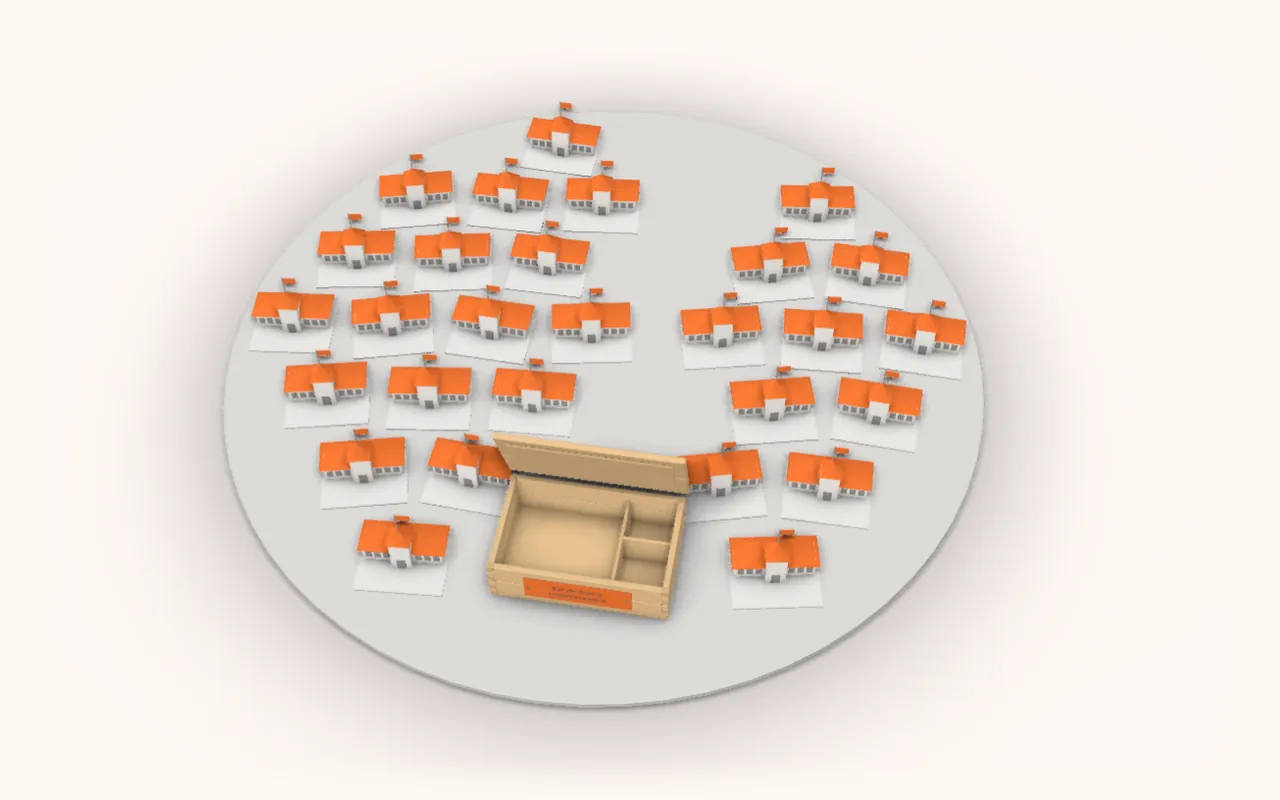
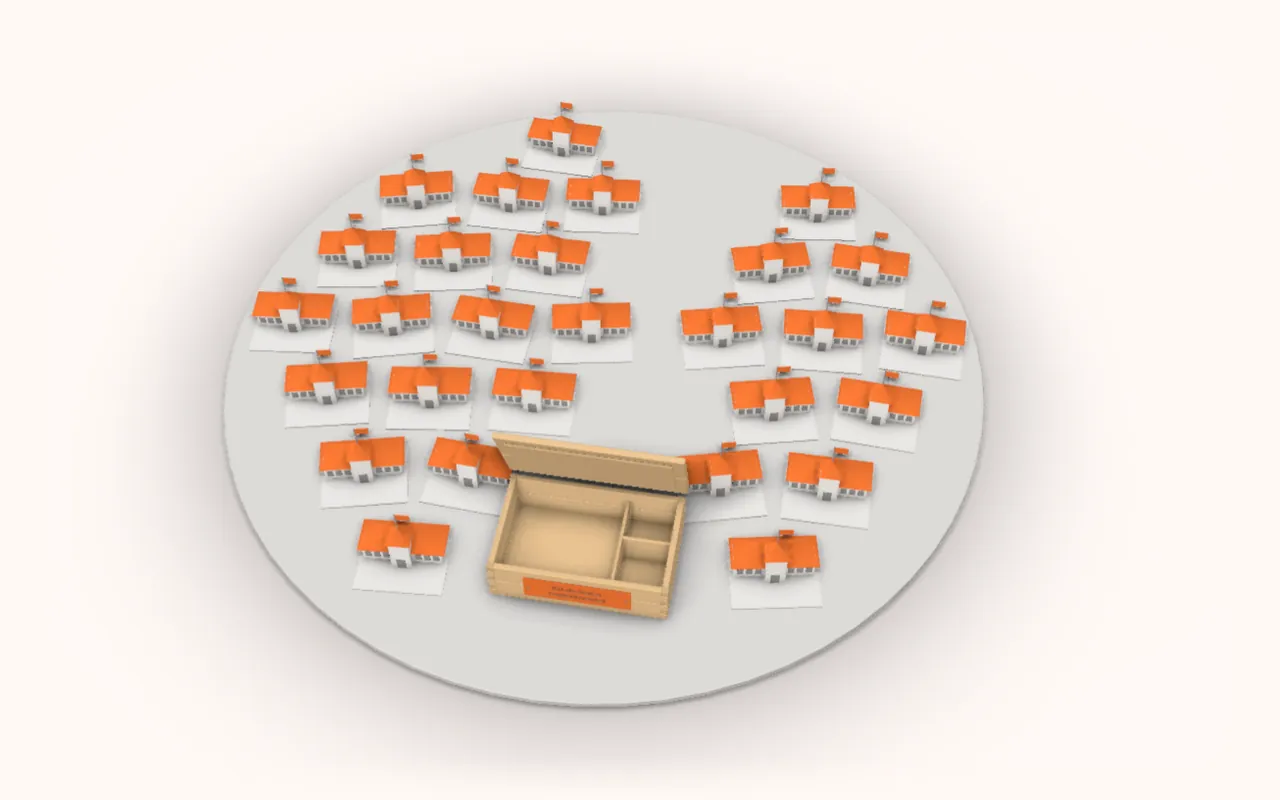
feat(work): Candela com a mão e a lupa pequena, e a câmera entrando nela
No passo das escolas uma mão traz uma lupa pequena e a segura apontada para o
kit; a câmera atravessa o aro, o campo redondo abre a partir do kit e só então
os kits saem para as 28 escolas. O passo seguinte segue com o zoom numa escola
e os 3.392 alunos. A lupa fica presa ao eixo da câmera, então ela passa pelo
meio do aro com qualquer balanço. O passo ganhou 1,9 s (3,1 → 5,0 s); pular
antes da hora pousa todos os kits. Pôster do passo 4 refeito.

Changed region(s): [[0.7188, 0.375, 0.75, 0.4062]]

diff --git a/src/components/Home/Clay/CandelaPeople.tsx b/src/components/Home/Clay/CandelaPeople.tsx
@@ -1,4 +1,5 @@
-// The ending, under one magnifying glass. It slides in under the kit and shows where the kits went:
+// The ending, through a magnifying glass. A hand holds a small one up to the kit, the camera goes
+// through it, and the round field it shows is where the kits went:
 // 28 schools, 17 in Bahia and 11 in Ceará. Then it goes into one of the schools and shows who was
 // reached: its students come out, the count runs to 3,392, and those who failed physics (a cross over
 // their heads) go from 9 in 30 to 3 in 30 once the kit is in class: the 30% and the 10% of the story.
@@ -7,7 +8,7 @@ import { useFrame } from '@react-three/fiber';
 import * as THREE from 'three';
 import { RoundedBoxGeometry } from 'three/examples/jsm/geometries/RoundedBoxGeometry.js';
 import { mergeGeometries } from 'three/examples/jsm/utils/BufferGeometryUtils.js';
-import { useTones } from './CandelaParts';
+import { TimingHand, useTones } from './CandelaParts';
 import { Act, ageOf, at, ease, pop, Puck, settle, slice, spring, useClay, type Mats, type Play, type V3 } from './kit';
 
 const HALF_PI = Math.PI / 2;
@@ -24,28 +25,82 @@ const merged = (parts: THREE.BufferGeometry[]) => {
 export const REACH = 3; // the step of the schools
 export const RESULT = 4; // the step of the students
 
-// ── The round stand ─────────────────────────────────────────────────────────
-// It was drawn as a magnifying glass (rim, glint, handle); it read as a pan, so only the disc stays.
-/** The middle of the stand, and the height its top is at: everything it shows stands on it. */
+// ── The magnifying glass ────────────────────────────────────────────────────
+// A small one, in a hand. It comes in from the lower right and stops between the camera and the kit;
+// then the camera goes through the ring, and the round field opens around the kit.
+/** Seconds into the schools' step: the glass is held still, and the camera's dive through it. */
+const LOUPE_SET = 1.15;
+export const DIVE: [number, number] = [1.5, 2.5];
+/** How far the camera travels in the dive (CandelaScene: from FAR to FIELD). */
+export const DIVE_LEN = 6;
+const LOUPE_AHEAD = 4.4; // how far in front of the camera the glass is held before the dive
+/** The ring has left the frame: from here on the kits may go. */
+export const ENTER = 1.9;
+const TILT = 0.7; // the handle points down and to the right
+export function Loupe() {
+  const { play, mats } = useClay();
+  const { wood } = useTones();
+  const g = useRef<THREE.Group>(null);
+  const { rim, glint } = useMemo(() => ({ rim: new THREE.TorusGeometry(0.5, 0.045, 10, 64), glint: new THREE.TorusGeometry(0.39, 0.012, 4, 20, 0.6).rotateZ(1.9) }), []);
+  useEffect(
+    () => () => {
+      rim.dispose();
+      glint.dispose();
+    },
+    [rim, glint],
+  );
+  // It is held far above the floor: its shadow down there would be a stray blot.
+  useLayoutEffect(() => void g.current?.traverse((o) => void (o.castShadow = false)), []);
+  const v = useMemo(() => new THREE.Vector3(), []);
+  // Hung on the camera's own axis every frame, so the camera goes through the middle of the ring whatever its sway.
+  useFrame(({ camera, clock }) => {
+    const o = g.current;
+    if (!o) return;
+    const a = play.to === REACH ? play.age : 0;
+    const ahead = LOUPE_AHEAD - DIVE_LEN * ease(slice(a, DIVE[0], DIVE[1]));
+    o.visible = a > 0.5 && ahead > 0.45;
+    if (!o.visible) return;
+    // In along its own handle, from outside the frame; held, it is never quite still.
+    const out = (1 - settle(slice(a, 0.55, LOUPE_SET), 0.6)) * 3.4;
+    const t = clock.elapsedTime;
+    o.quaternion.copy(camera.quaternion);
+    o.position.copy(camera.position).add(v.set(Math.sin(TILT) * out + Math.sin(t * 1.7) * 0.012, -Math.cos(TILT) * out + Math.sin(t * 2.3) * 0.012, -ahead).applyQuaternion(camera.quaternion));
+  });
+  return (
+    <group ref={g} visible={false}>
+      <group rotation={[0, 0, TILT]}>
+        <mesh geometry={rim} material={mats.shade.dark} />
+        <mesh geometry={glint} position={[0, 0, 0.02]} material={mats.clay} />
+        <Puck r={0.06} h={0.3} bevel={0.02} segments={16} position={[0, -0.66, 0]} material={mats.shade.dark} />
+        <Puck r={0.085} h={1.1} bevel={0.04} segments={20} position={[0, -1.3, 0]} material={wood} />
+        <group position={[0, -1.3, 0.1]}>
+          <TimingHand />
+        </group>
+      </group>
+    </group>
+  );
+}
+
+// ── The round field the glass shows ─────────────────────────────────────────
+/** The middle of the field, and the height its top is at: everything it shows stands on it. */
 export const LENS: V3 = [-0.9, 0, 0.15];
 export const GLASS = 0.06;
 const RIM = 3; // radius
-const HANDLE = 0.38; // the way it slides in and out, radians from +X towards the camera
-/** A point on the glass (x to the right, z towards the camera, from its middle), in the world. */
+/** A point on the field (x to the right, z towards the camera, from its middle), in the world. */
 export const onLens = (x: number, z: number, y = 0): V3 => [LENS[0] + x, GLASS + y, LENS[2] + z];
-// It slides in under the kit and leaves the way it came. Between the two steps it gives a little.
+// It opens around the kit as the camera comes through the glass, and closes on the spot when the story leaves.
 const lensAct = (g: THREE.Group, p: Play) => {
   const here = p.to === REACH || p.to === RESULT;
   const was = p.from === REACH || p.from === RESULT;
-  const k = here ? (was ? 1 : settle(slice(p.t, 0.2, 0.85), 0.5)) : was ? 1 - ease(slice(p.t, 0, 0.45)) : 0;
+  const open = p.to === REACH ? (p.from === RESULT ? 1 : ease(slice(p.age, ENTER - 0.15, ENTER + 0.5))) : was ? 1 : settle(slice(p.t, 0.2, 0.85), 0.5);
+  const k = here ? open : was ? 1 - ease(slice(p.t, 0, 0.45)) : 0;
   g.visible = k > 0.001;
-  const out = (1 - k) * 11;
-  // Going from the schools into one school, the stand gives.
+  // Going from the schools into one school, the field gives.
   const focus = p.from === REACH && p.to === RESULT ? 0.035 * Math.sin(slice(p.t, 0.05, 0.6) * Math.PI) : 0;
-  g.position.set(LENS[0] + Math.cos(HANDLE) * out, 0, LENS[2] + Math.sin(HANDLE) * out);
-  g.scale.setScalar(1 - focus);
+  // It opens out from under the kit, not from its own middle.
+  g.position.set(LENS[0] + KIT_ON_LENS[0] * (1 - k), 0, LENS[2] + KIT_ON_LENS[1] * (1 - k));
+  g.scale.set(k * (1 - focus), 1, k * (1 - focus));
 };
-
 export function Lens() {
   const { mats } = useClay();
   return (
@@ -87,8 +142,8 @@ const FOCUS_AT: [number, number] = [0, -1.7];
 // Kits leave the box for the nearest schools first.
 const ORDER = SPOTS.map((_, i) => i).sort((a, b) => Math.hypot(SPOTS[a].x - KIT_ON_LENS[0], SPOTS[a].z - KIT_ON_LENS[1]) - Math.hypot(SPOTS[b].x - KIT_ON_LENS[0], SPOTS[b].z - KIT_ON_LENS[1]));
 const RANK = SPOTS.map((_, i) => ORDER.indexOf(i));
-/** When the kit for the `n`-th school lands, seconds into the step. */
-export const landAt = (n: number) => 1.05 + n * 0.05;
+/** When the kit for the `n`-th school lands, seconds into the step (the camera is through the glass by ENTER). */
+export const landAt = (n: number) => ENTER + 1.05 + n * 0.05;
 /** How many schools have their kit, `p` into the story. */
 export const reached = (p: Play, from = 0, to = SCHOOLS) => {
   if (p.to !== REACH && p.from !== REACH) return 0;
@@ -164,7 +219,8 @@ export function Schools() {
     m.visible = on;
     b.visible = on && (p.to === REACH || p.from === REACH);
     if (!on) return;
-    const a3 = ageOf(p, REACH);
+    // Leaving the schools' step early (a click on the next one), every kit has landed: nothing is left in the air.
+    const a3 = p.from === REACH && p.to !== REACH ? 99 : ageOf(p, REACH);
     for (let i = 0; i < SCHOOLS; i++) {
       const s = SPOTS[i];
       const land = landAt(RANK[i]);

diff --git a/src/components/Home/Clay/CandelaScene.tsx b/src/components/Home/Clay/CandelaScene.tsx
@@ -1,10 +1,10 @@
 // Projeto Candela in five steps, with the kit in every one of them: the wooden box opens; what is
 // inside is laid out on the desk; three of the experiments run, one after the other, the camera on each;
-// then a round stand slides in under the kit and shows the 28 schools its kits went to, and goes
+// then a hand holds a small magnifying glass up to the kit, the camera goes through it to the 28 schools its kits went to, and goes
 // into one school to show the students: 3,392 reached, and those who fail physics from 30% to 10%.
 import { useEffect } from 'react';
 import * as THREE from 'three';
-import { BAHIA, BAHIA_AT, CEARA, CEARA_AT, counted, kidAt, KIT_ON_LENS, Lens, onLens, REACH, reached, RESULT, Schools, SCHOOLS, Students, TURN } from './CandelaPeople';
+import { BAHIA, BAHIA_AT, CEARA, CEARA_AT, counted, DIVE, ENTER, kidAt, KIT_ON_LENS, Lens, Loupe, onLens, REACH, reached, RESULT, Schools, SCHOOLS, Students, TURN } from './CandelaPeople';
 import { Caliper, CAR_GO, Cylinder, Desk, DESK, disposeTones, DROP_X, HANG, HUNG, Incline, KitBox, LET_GO, Lid, LID_OPEN, lidOpen, PULLEY_Y, Riding, SpringScale, Stand, Stopwatch, TagWhen, Tape, TimingHand, Track, Weights } from './CandelaParts';
 import { Act, ageOf, at, bump, ease, Morph, Puck, Rig, settle, shown, slice, spring, Tag, useClay, wins, type Play, type Pose, type Shot, type V3 } from './kit';
 
@@ -57,7 +57,7 @@ const peek = (rise: number, when: number, k: number) => (g: THREE.Group, p: Play
 /** The kit box has a body: it squats before the lid flies open, recoils when the parts spring out, pumps while it sends kits out, and gives a jump when it turns the class round. */
 const boxAct = (g: THREE.Group, p: Play) => {
   const a0 = ageOf(p, 0);
-  const a3 = ageOf(p, REACH);
+  const a3 = ageOf(p, REACH) - ENTER; // the kits go once the camera is through the glass
   const a4 = ageOf(p, RESULT);
   const squat = (0.08 * bump(slice(a0, 0.02, 0.22)) - 0.06 * bump(slice(a0, 0.2, 0.5)) + 0.07 * bump(slice(a0, DUCK, DUCK + 1))) * at(p, 0);
   const recoil = p.to === 1 ? 0.16 * bump(slice(p.age, 0.02, 0.32)) : 0;
@@ -67,7 +67,7 @@ const boxAct = (g: THREE.Group, p: Play) => {
   g.position.y = 0.35 * jump;
 };
 // The lid: it springs open at the first step, stands open while what was inside is laid out, and opens again on the glass to let the kits out.
-const lidOf = (p: Play) => lidOpen(ageOf(p, 0)) * at(p, 0) + LID_OPEN * at(p, 1) + LID_OPEN * spring(ageOf(p, REACH) - 0.72, 1.7, 4.5) * at(p, REACH);
+const lidOf = (p: Play) => lidOpen(ageOf(p, 0)) * at(p, 0) + LID_OPEN * at(p, 1) + LID_OPEN * spring(ageOf(p, REACH) - ENTER - 0.72, 1.7, 4.5) * at(p, REACH);
 
 // ── The experiments, on the desk ─────────────────────────────────────────────
 const EXPERIMENTS = 2;
@@ -101,6 +101,8 @@ const WIDE = { pos: [0, 7.6, 11] as V3, look: [0, 0.4, 0.3] as V3 };
 const AT_TRACK = { pos: [-1.6, 5.35, 7.0] as V3, look: [-1.6, 0.2, 2.35] as V3 };
 const AT_INCLINE = { pos: [1.55, 2.9, 2.85] as V3, look: [1.3, 0.7, -1.9] as V3 };
 const AT_STAND = { pos: [3.9, 3.1, 8.9] as V3, look: [3.5, 1.5, 1.15] as V3 };
+const FAR = { pos: [-0.9, 13.1, 12.3] as V3, look: [-0.9, 0.35, 2.0] as V3 };
+const FIELD = { pos: [-0.6, 9.2, 7.75] as V3, look: [-0.6, 0.1, 0.55] as V3 };
 const CAMERA: Shot[] = [
   { pos: [0.4, 3.75, 8.9], look: [0, 1.5, 0.25], to: { pos: [0.3, 3.9, 9.2], look: [0, 1.5, 0.1] }, over: [0, 0.9] },
   { pos: [0, 8.1, 9.9], look: [0, 0.85, 0.5], to: { pos: [0, 7.9, 9.6], look: [0, 0.85, 0.5] }, over: [0.6, 2.6] },
@@ -117,8 +119,19 @@ const CAMERA: Shot[] = [
       { at: ON_STAND, ...AT_STAND },
     ],
   },
-  // The last two look at the middle of the round stand (a little to its right, for the labels on that side).
-  { pos: [-0.6, 9.2, 7.75], look: [-0.6, 0.1, 0.55], to: { pos: [-0.6, 9.0, 7.6], look: [-0.6, 0.1, 0.55] }, over: [0.5, 2.6] },
+  // The schools: from far off, on the kit (it sits in the middle of the glass the hand holds up), then
+  // through the glass to the round field. FAR to FIELD is DIVE_LEN long.
+  {
+    pos: FAR.pos,
+    look: FAR.look,
+    path: [
+      { at: 0, ...FAR },
+      { at: DIVE[0], ...FAR },
+      { at: DIVE[1], ...FIELD },
+      { at: DIVE[1] + 2.4, pos: [-0.6, 9.0, 7.6], look: FIELD.look },
+    ],
+  },
+  // The students: on the middle of the field (a little to its right, for the labels on that side).
   { pos: [-0.6, 8.5, 8.95], look: [-0.6, 0.5, 0.75], to: { pos: [-0.6, 8.3, 8.75], look: [-0.6, 0.5, 0.75] }, over: [0.6, 2.2] },
 ];
 
@@ -209,12 +222,13 @@ export default function CandelaScene() {
       <TagWhen at={[INCLINE[0] - 0.4, 1.05, INCLINE[2]]} dx={-30} dy={-40} on={during([LET_GO + 0.1, ON_INCLINE[1]])}>Inclined plane</TagWhen>
       <TagWhen at={[hang[0] + 0.15, hang[1] - 0.6, hang[2]]} dx={70} dy={-10} on={during([HUNG + 0.2, 99])}>{'Spring scale\n+ cylinder'}</TagWhen>
 
-      {/* The ending, on one round stand: the 28 schools, then the students of one of them */}
+      {/* The ending, through the magnifying glass: the 28 schools, then the students of one of them */}
+      <Loupe />
       <Lens />
       <Schools />
-      <TagWhen at={onLens(BAHIA_AT[0], BAHIA_AT[1], 0.6)} dx={-44} dy={-8} on={(p) => shown(p, [REACH], 1.2)}>{`Bahia · ${BAHIA}`}</TagWhen>
-      <TagWhen at={onLens(CEARA_AT[0], CEARA_AT[1], 0.6)} dx={30} dy={-30} on={(p) => shown(p, [REACH], 1.6)}>{`Ceará · ${CEARA}`}</TagWhen>
-      <TagWhen at={onLens(-1.75, 2.35, 0.05)} dx={-34} dy={30} on={(p) => shown(p, [REACH], 1.05)} text={(p) => (reached(p) === 1 ? '1 school' : `${reached(p)} schools`)}>
+      <TagWhen at={onLens(BAHIA_AT[0], BAHIA_AT[1], 0.6)} dx={-44} dy={-8} on={(p) => shown(p, [REACH], ENTER + 1.2)}>{`Bahia · ${BAHIA}`}</TagWhen>
+      <TagWhen at={onLens(CEARA_AT[0], CEARA_AT[1], 0.6)} dx={30} dy={-30} on={(p) => shown(p, [REACH], ENTER + 1.6)}>{`Ceará · ${CEARA}`}</TagWhen>
+      <TagWhen at={onLens(-1.75, 2.35, 0.05)} dx={-34} dy={30} on={(p) => shown(p, [REACH], ENTER + 1.05)} text={(p) => (reached(p) === 1 ? '1 school' : `${reached(p)} schools`)}>
         {`${SCHOOLS} schools`}
       </TagWhen>
       <Students />

diff --git a/src/components/Home/Clay/steps.ts b/src/components/Home/Clay/steps.ts
@@ -3,7 +3,7 @@
 export const TRAVEL_MS = 700;
 const STEP_MS: Record<string, number[]> = {
   hibeex: [3000, 3000, 3300, 3200, 3400],
-  candela: [2500, 2900, 4300, 3100, 3100],
+  candela: [2500, 2900, 4300, 5000, 3100],
   laptops: [2700, 4000, 2900, 3700, 2900, 2800],
 };
 export const stepMs = (slug: string, index: number): number => STEP_MS[slug]?.[index] ?? 3100;
